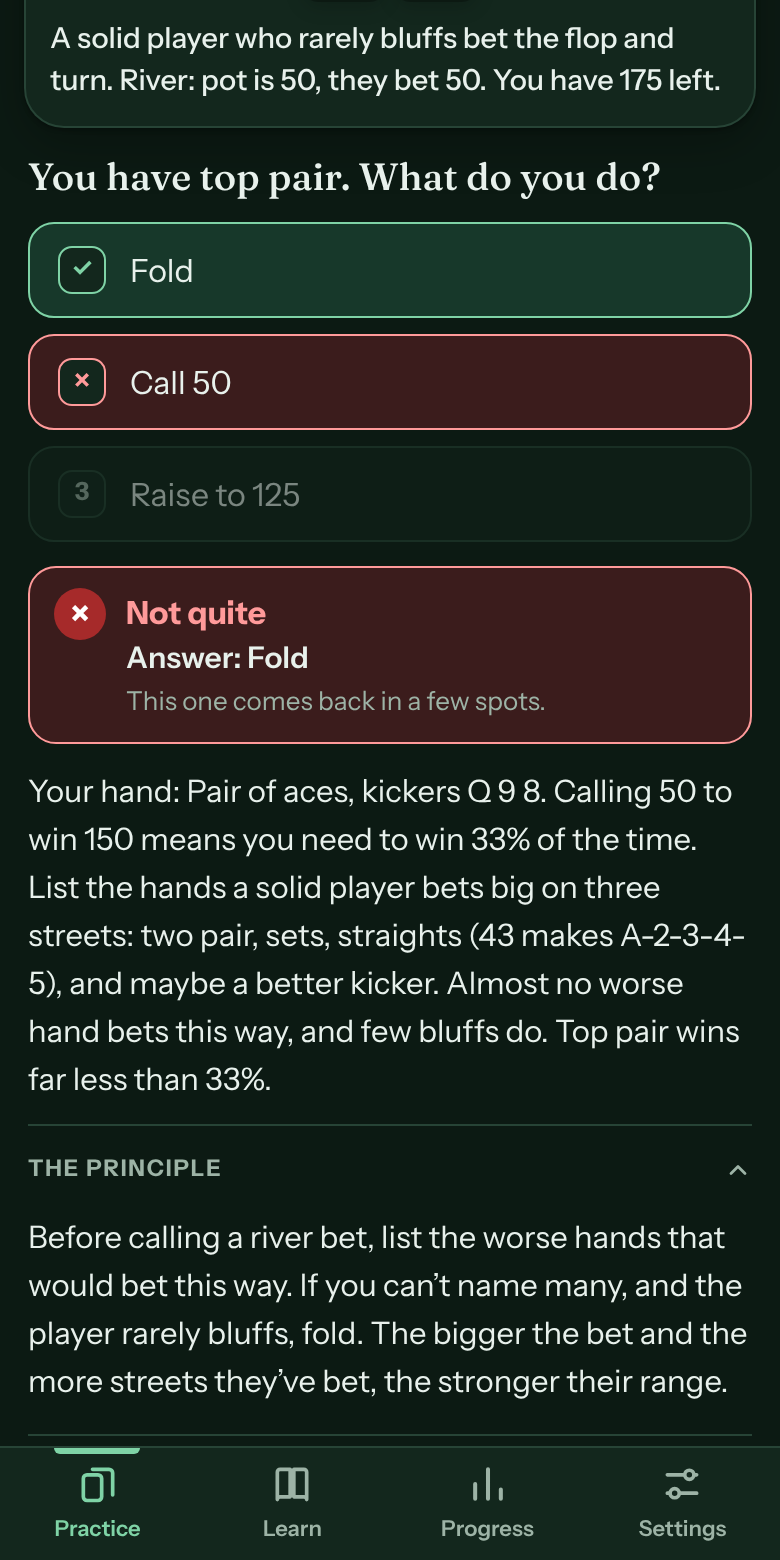
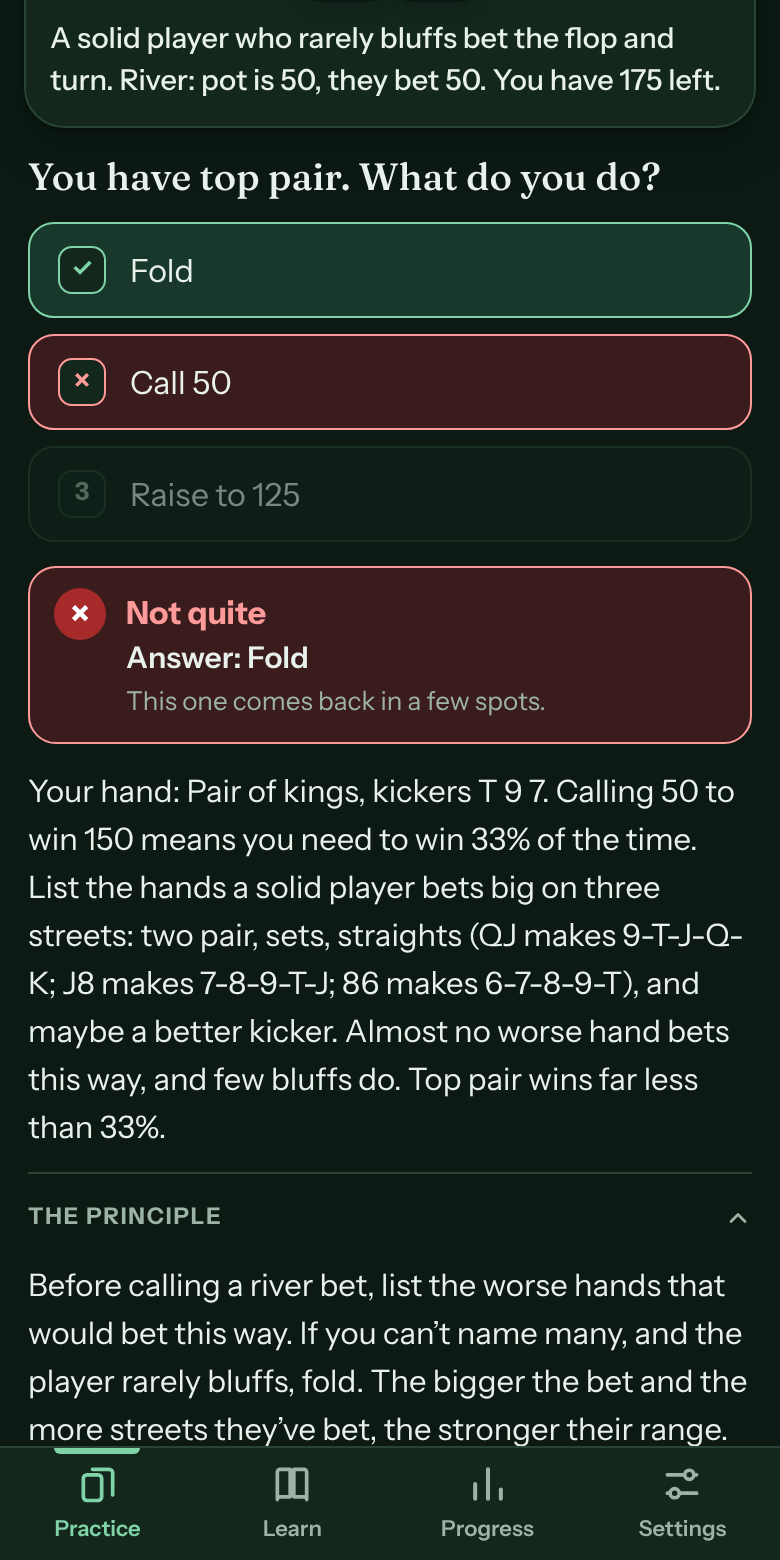
Show bets and the pot on the table (v2.6.0)
- Gold chip badges beside each seat show the blinds, limps, raises, bets and
  all-ins, read from the spot by tableChips. The pot in the middle is the sum
  before the flop, instead of 'Blinds 1/2'.
- The all-in price line now spells out the final pot: 200 from each player
  plus the small blind's 1.
- README screenshots retaken.

Claude-Session: https://claude.ai/code/session_01WSPbWFAZjPPKDhCczZxpF9

Changed region(s): [[0.0308, 0.5846, 0.9538, 0.9231], [0.3692, 0.4923, 0.9538, 0.5231]]

diff --git a/index.html b/index.html
@@ -318,6 +318,10 @@ h1{font-family:var(--serif);font-weight:700;font-size:20px;line-height:1.1;margi
 .st.acted{border-color:var(--gold)}
 .st.acted i{color:var(--ink);font-weight:700}
 .dl{position:absolute;top:-8px;right:-7px;width:15px;height:15px;border-radius:50%;background:var(--gold);color:#3a2a00;font-size:9.5px;font-weight:800;display:flex;align-items:center;justify-content:center;box-shadow:0 1px 2px rgba(0,0,0,.4)}
+.chips{position:absolute;font-family:var(--serif);font-size:10.5px;font-weight:700;line-height:1;color:#3a2a00;background:var(--gold);border-radius:999px;padding:2px 6px;white-space:nowrap;box-shadow:0 1px 2px rgba(0,0,0,.4)}
+.chips.t{bottom:calc(100% + 4px);left:50%;transform:translateX(-50%)}
+.chips.cl{left:-8px;bottom:-10px} .chips.cr{right:-8px;bottom:-10px}
+.chips.l{right:calc(100% + 4px);top:50%;transform:translateY(-50%)} .chips.r{left:calc(100% + 4px);top:50%;transform:translateY(-50%)}
 .ptable.many .st{min-width:36px;padding:2px 3px}
 .ptable.many .st b{font-size:10.5px;letter-spacing:-.2px}
 .ptable.many .st i{font-size:9px}
@@ -1077,7 +1081,7 @@ T("All-in decisions",FMTS,function(f){
       var ok=eq>need,hh=rr.h;
       return {sk:"call|"+who,f:f,you:hero,who:who,out:others(f,[hero,"BB"]),sub:{BB:"All-in"},act:"You raised to 5"+(f==="2"?"":" "+och.at)+". The big blind is "+R.name+" and moves all-in for 200. You need 195 more.",hand:rr.cards,label:hh.label,q:"Call or fold?",
         o:[O("Call 195",ok),O("Fold",!ok)],fixed:true,
-        e:E("Price: 195 to win "+(pot+call)+", so you need "+pct(need)+". This player shoves with about "+R.rng+". Against that range, "+hh.label+" has about "+pct(eq)+" equity. "+(ok?"That beats the price, so call.":"That is short of the price, so fold, even though "+hh.label+" is a good hand in general."),
+        e:E("Price: you pay 195 more, and the pot after your call is "+(pot+call)+" (200 from each of you"+(dead?", plus the small blind’s 1":"")+"). 195 ÷ "+(pot+call)+" = "+pct(need)+", so you need to win "+pct(need)+" of the time. This player shoves with about "+R.rng+". Against that range, "+hh.label+" has about "+pct(eq)+" equity. "+(ok?"That beats the price, so call.":"That is short of the price, so fold, even though "+hh.label+" is a good hand in general."),
           AI_PRIN+" At 100 big blinds, a tight player’s shove calls only AA-KK; a typical player’s shove calls QQ+ and AK; a maniac’s shove can be called much lighter.",
           "Calling because the hand “looks strong.” QQ and AK are about a coin flip or worse against a tight player’s shoving range.")};
     }
@@ -1400,6 +1404,29 @@ T("Facing bets",null,function(){
   return null;
 });
 
+/* The chips in front of each player, read from the spot, so the table shows the bets and the pot instead of leaving
+   them to the text. Keys are seat names, or "you" and "opp" for a spot without seats. pot is the pot before the bet
+   you face ("Pot is N" in the text), or the chips already in before the flop. */
+function tableChips(g){
+  var act=g.act||"",c={},real=!!(g.f&&g.you);
+  var last=function(re){var x=new RegExp(re.source,"g"),m,r=null;while((m=x.exec(act)))r=+m[1];return r;};
+  var theirs=function(){var x=/(\w+),? bets? (\d+)/g,m,r=null;while((m=x.exec(act)))if(!/^you$/i.test(m[1]))r=+m[2];return r;};
+  var allin=last(/all-in for (?:their last )?(\d+)/),raise=last(/[^-]raises? to (\d+)/),bet=theirs(),mine=last(/[Yy]ou bet (\d+)/),pm=act.match(/[Pp]ot is (\d+)/);
+  if(!real){
+    if(raise!==null&&mine!==null){c.opp=raise;c.you=mine;}else if(allin!==null)c.opp=allin;else if(bet!==null)c.opp=bet;else if(mine!==null)c.you=mine;
+    return {c:c,pot:pm?+pm[1]:null};
+  }
+  var sub=g.sub||{};
+  if(!g.board){
+    c[g.f==="2"?"BTN":"SB"]=1;c.BB=2;
+    var open=last(/You raised to (\d+)/);if(open!==null)c[g.you]=open;
+    Object.keys(sub).forEach(function(s){var L=sub[s],v=L==="Limp"?2:L==="Raise"?(raise||5):L==="Call"?(raise||open):L==="3-bet"?last(/re-raises to (\d+)/):L==="All-in"?allin:null;if(v)c[s]=v;});
+    var sum=0;Object.keys(c).forEach(function(k){sum+=c[k];});
+    return {c:c,pot:pm?+pm[1]:sum};
+  }
+  Object.keys(sub).forEach(function(s){var v=sub[s]==="Bet"?bet:sub[s]==="All-in"?allin:null;if(v)c[s]=v;});
+  return {c:c,pot:pm?+pm[1]:null};
+}
 /* The rule table shown after a spot that has no range chart: every kind of hand in this situation and what it does,
    with the row for your hand marked (hi). The text repeats the rules the generators follow; the tests check that. */
 function ruleTable(g){
@@ -1678,7 +1705,7 @@ function variant(topic,f,skill,avoid){
 /* Shown at the bottom of the page and the menu, so you can tell when a new release has loaded.
    v must match the cache name in sw.js (holdem-drill-X.Y.Z); the tests check it. Small fix: bump Z. New feature:
    bump Y. Big change: bump X. at is the release time in UTC, shown in the phone's own time zone. */
-var BUILD={v:"2.5.1",at:"2026-11-12T17:52Z"};
+var BUILD={v:"2.6.0",at:"2026-11-12T18:02Z"};
 function buildText(){
   var d=new Date(BUILD.at),t;
   try{t=d.toLocaleString("en-GB",{day:"numeric",month:"short",year:"numeric",hour:"2-digit",minute:"2-digit",hour12:false});}catch(e){t=BUILD.at;}
@@ -1735,17 +1762,22 @@ var TITLES={practice:"Practice",learn:"Learn",progress:"Progress",settings:"Sett
    The pot and the board are in the middle. Spots without seats show you against one opponent. */
 function tableHTML(g){
   var real=!!(g.f&&g.you),seats;
-  if(real)seats=seatsFor(g.f).map(function(s){return {name:g.f==="2"&&s==="BTN"?"BTN/SB":SHORT[s],you:s===g.you,fold:(g.out||[]).indexOf(s)>=0,sub:(g.sub||{})[s]||"",btn:s==="BTN"};});
-  else seats=[{name:"You",you:true},{name:"Opponent",sub:""}];
+  if(real)seats=seatsFor(g.f).map(function(s){return {key:s,name:g.f==="2"&&s==="BTN"?"BTN/SB":SHORT[s],you:s===g.you,fold:(g.out||[]).indexOf(s)>=0,sub:(g.sub||{})[s]||"",btn:s==="BTN"};});
+  else seats=[{key:"you",name:"You",you:true},{key:"opp",name:"Opponent",sub:""}];
   var n=seats.length,hi=0;seats.forEach(function(s,j){if(s.you)hi=j;});
-  var pot=(g.act||"").match(/[Pp]ot is (\d+)/);
+  var tc=tableChips(g),pot=tc.pot===null?null:[0,tc.pot];
   var h='<div class="ptable'+(n>=7?' many':'')+'" aria-label="Table"><div class="oval"></div><div class="mid">'+
     (pot?'<span class="pot">Pot '+pot[1]+'</span>':g.board?'':'<span class="pot quiet">Blinds 1/2</span>')+
     (g.board?'<div class="board">'+g.board.map(function(c){return tile(c,"sm");}).join("")+'</div>':'')+'</div>';
   seats.forEach(function(s,j){
-    var a=(90+(j-hi)*360/n)*Math.PI/180,x=50+42*Math.cos(a),y=50+40*Math.sin(a);
+    var a=(90+(j-hi)*360/n)*Math.PI/180,x=50+42*Math.cos(a),y=50+40*Math.sin(a),chips=tc.c[s.key];
+    /* Chips sit beside the seat, on the side nearer the middle, where they cannot cover the pot or the board.
+       Before the flop your own chips sit above your seat. */
+    var side=s.you&&!g.board?"t":Math.cos(a)<-.5?"r":"l";
+    /* A seat level with the board has no room beside it, so its chips sit on its lower inner corner. */
+    if(g.board&&Math.abs(Math.sin(a))<.7)side="c"+side;
     h+='<div class="st'+(s.you?' you':'')+(s.fold?' fold':'')+(s.sub&&!s.you?' acted':'')+'" style="left:'+x.toFixed(1)+'%;top:'+y.toFixed(1)+'%">'+
-      (s.btn?'<span class="dl" aria-label="dealer button">D</span>':'')+'<b>'+s.name+'</b><i>'+(s.you?(real?'You':''):s.fold?'Fold':s.sub)+'</i></div>';
+      (s.btn?'<span class="dl" aria-label="dealer button">D</span>':'')+(chips?'<span class="chips '+side+'" aria-label="chips in front">'+chips+'</span>':'')+'<b>'+s.name+'</b><i>'+(s.you?(real?'You':''):s.fold?'Fold':s.sub)+'</i></div>';
   });
   return h+'</div>';
 }

diff --git a/sw.js b/sw.js
@@ -1,4 +1,4 @@
-const CACHE = "holdem-drill-2.5.1";
+const CACHE = "holdem-drill-2.6.0";
 const FILES = ["./", "index.html", "manifest.webmanifest", "icon-192.png", "icon-512.png", "icon-maskable-512.png", "apple-touch-icon.png", "icon.svg",
   "fonts/fraunces-latin-500-normal.woff2", "fonts/fraunces-latin-700-normal.woff2", "fonts/instrument-sans-latin-400-normal.woff2",
   "fonts/instrument-sans-latin-500-normal.woff2", "fonts/instrument-sans-latin-600-normal.woff2", "fonts/instrument-sans-latin-700-normal.woff2"];

diff --git a/CLAUDE.md b/CLAUDE.md
@@ -21,7 +21,7 @@ A mobile-first practice app for **live No-Limit Hold'em cash games, heads-up to 
 8. **Skills and reviews**: `skillOf(g)` names what a spot tests (`topic|sk`, else `topic|rkey`). Every generator sets `sk` unless `rkey` already says it (for example `Flop c-bets|nothing|dry`, `River vs big bets|top|solid`). `variant(topic, f, skill)` deals a new spot of the same skill. When adding a generator, give it an `sk`; the tests check that every skill can be dealt again.
 9. **UI and state** (after `/* ===== State`): localStorage key `endlessHoldemDrill.v2`. `render()` draws the header, the current page into `#page`, and the bottom navigation; `setView(v)` switches page. Table size is a range `st.lo`..`st.hi`, changed only in Settings, which opens a sheet with a two-handle slider (either handle can be either end). The header shows the range as plain text, not a control. Theme (`st.theme`: dark, light, or auto) sets `data-theme` on `<html>`, and a MutationObserver re-applies it if the host changes it.
 10. **Navigation**: a bottom bar with four pages. **Practice** (the spot), **Learn** (Lessons, Ranges and Raising), **Progress** (accuracy ring, review counts, accuracy by topic weakest first, recent mistakes) and **Settings** (table size, topics, appearance, sound, reset). Tapping a topic in Progress drills only that topic.
-   - **Practice page**: `tableHTML(g)` draws an oval table with seats in action order clockwise, you at the bottom, the dealer button, each seat's action, and the pot and board in the middle (the pot is read from "Pot is N" in `g.act`). Spots without seats show You against Opponent. Your cards sit under your seat. `explHTML` shows the verdict, the answer, then Why; The principle and Common mistake are collapsible, open after a miss and closed after a right answer. The range chart is collapsible too but **always starts open**, right or wrong, in every mode (the owner asked for this). Spots with no range chart can show a rule table in its place: `ruleTable(g)` lists every kind of hand in that situation and its play, with your row marked (Facing bets and River vs big bets). The rule table is always open too. The table text repeats the strategy rules: **change it with them**.
+   - **Practice page**: `tableHTML(g)` draws an oval table with seats in action order clockwise, you at the bottom, the dealer button, each seat's action, and the pot and board in the middle (the pot is read from "Pot is N" in `g.act`). `tableChips(g)` reads the chips in front of each player from the spot (blinds, limps, raises, bets and all-ins, using `sub` and the amounts in `g.act`) and the table shows them as gold badges beside the seats, with the pot in the middle: before the flop the pot is the sum of those chips. The owner asked for bets and the pot to be on the table, not only in the text. When a generator words an amount in a new way, check that `tableChips` still finds it; the tests check that the chips add up to the pot before the flop and that a bet you are asked to call is shown. Spots without seats show You against Opponent. Your cards sit under your seat. `explHTML` shows the verdict, the answer, then Why; The principle and Common mistake are collapsible, open after a miss and closed after a right answer. The range chart is collapsible too but **always starts open**, right or wrong, in every mode (the owner asked for this). Spots with no range chart can show a rule table in its place: `ruleTable(g)` lists every kind of hand in that situation and its play, with your row marked (Facing bets and River vs big bets). The rule table is always open too. The table text repeats the strategy rules: **change it with them**.
 11. **Learn**: three sections.
    - **Lessons** (the default): `LESSONS` is a 16-lesson course in five `UNITS`. A lesson is a few short pages (`h`, `p`, optional `rows` table or a function returning one, `chart`, `tip`) and a `quiz` of real spots from one topic (`n` spots, `pass` mark, optional `test(g)` filter, `need3`). `lessonSpot(L, f)` deals a quiz spot. In the UI, `les` is the open lesson; `startQuiz` sets `focus={q,i,ok,n}`, `advance()` goes to the next spot or `finishQuiz()`, which saves `st.les[id]={best,pass,page}`. Quiz answers count in stats and feed the review ladder. Lesson numbers repeat the strategy rules below: tables that can read a chart do (`pctRow`, `guideRows`). **When a strategy rule changes, check the lesson text too.**
    - **Ranges**: a cheat sheet of every chart at once, not tied to the table-size setting, because a seat's range depends on how many players are left to act, not on how many sat down. `learnAll()` lists each chart once (opening, big blind defense, facing a raise, short stack); `keySizes(k)` says at which table sizes it comes up (from `learnGroups(f)`, the charts that exist at one size), and each card shows that with `keySub(k)`, plus `learnNote(k)`, the grid and the edges. Drilling uses a table size inside the slider range when the chart comes up there. "Drill this chart" sets `focus={k,f}` and `next()` deals only that chart via `drillSpot` until Stop. When adding a chart, add it to `learnGroups` and `learnAll`.
